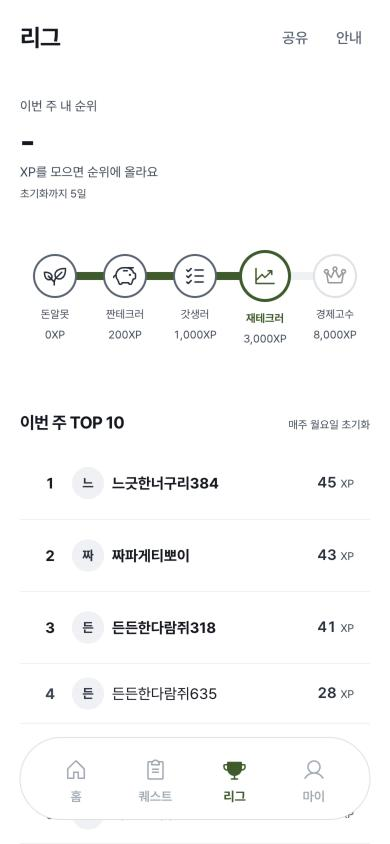
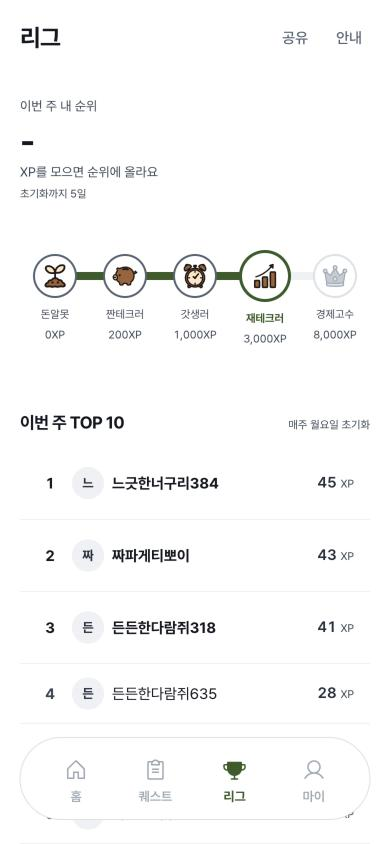
리그 등급 아이콘을 수달 그림체 일러스트 5종(SVG)으로 교체: 새싹·저금통·자명종·상승 차트·왕관, 못 간 등급은 잠김본

diff --git a/src/components/StageGlyph.tsx b/src/components/StageGlyph.tsx
@@ -1,12 +1,11 @@
-import { ChartLineUp, Crown, ListChecks, PiggyBank, Plant, type Icon } from '@phosphor-icons/react';
+// 등급은 수달과 같은 낙서 그림체 일러스트로 구분한다: 새싹 → 저금통 → 자명종 → 상승 차트 → 왕관
+// (public/league/v1, docs/character/league/trace_league.py로 벡터화). 아직 못 간 등급은 회색 잠김본, 40px 이하는 단순화본.
+const STAGE_FILE: Record<number, string> = { 1: 'tier1-moneybeginner', 2: 'tier2-saver', 3: 'tier3-routine', 4: 'tier4-investor', 5: 'tier5-master' };
 
-// 등급은 선형 아이콘으로 구분한다: 씨앗 → 저금통 → 체크리스트 → 상승 차트 → 왕관
-const STAGE_ICON: Record<number, Icon> = { 1: Plant, 2: PiggyBank, 3: ListChecks, 4: ChartLineUp, 5: Crown };
-
-export const StageGlyph = ({ id, size = 20, className = '' }: { id: number; size?: number; className?: string }) => {
-  const Glyph = STAGE_ICON[id] ?? Plant;
+export const StageGlyph = ({ id, size = 20, className = '', locked = false }: { id: number; size?: number; className?: string; locked?: boolean }) => {
+  const variant = locked ? '-locked' : size <= 40 ? '-small' : '';
   return (
-    <Glyph weight="regular" size={size} color="currentColor" aria-hidden="true" focusable="false" data-stage-id={id}
-      className={`stage-glyph shrink-0 ${className}`} style={{ width: size, height: size }} />
+    <img src={`/league/v1/league-${STAGE_FILE[id] ?? STAGE_FILE[1]}${variant}.svg`} alt="" aria-hidden="true" data-stage-id={id}
+      width={size} height={size} className={`stage-glyph shrink-0 ${className}`} style={{ width: size, height: size }} />
   );
 };

diff --git a/src/index.css b/src/index.css
@@ -1141,7 +1141,7 @@ button.course-home-rail-card:active { background: var(--color-surface); }
 .league-tier-node { display: flex; width: 44px; height: 44px; align-items: center; justify-content: center; border: 2px solid var(--color-line); border-radius: 50%; background: var(--color-card); }
 .league-tier-step[data-state='done'] .league-tier-node { border-color: var(--color-line-strong); background: var(--color-card); color: var(--color-ink-2); }
 .league-tier-step[data-state='current'] .league-tier-node { width: 52px; height: 52px; margin-top: calc(var(--space-1) * -1); border: 3px solid var(--color-accent-line-strong); box-shadow: 0 0 0 4px var(--color-accent-soft); color: var(--color-accent-foreground); }
-.league-tier-step[data-state='future'] .league-tier-node .stage-glyph { opacity: 0.45; filter: grayscale(0.6); }
+.league-tier-step[data-state='future'] .league-tier-node .stage-glyph { opacity: 1; filter: none; }
 .league-tier-name { margin-top: var(--space-1); max-width: 100%; overflow: hidden; color: var(--color-ink-3); font-size: var(--font-size-caption); text-overflow: ellipsis; white-space: nowrap; }
 .league-tier-step[data-state='current'] .league-tier-name { color: var(--color-accent-foreground); font-weight: var(--font-weight-bold); }
 .league-tier-xp { color: var(--color-ink-3); font-size: var(--font-size-caption); font-variant-numeric: tabular-nums; }

diff --git a/src/components/StageGlyph.test.tsx b/src/components/StageGlyph.test.tsx
@@ -16,15 +16,16 @@ const mount = (children: ReactNode) => {
 };
 
 describe('리그 등급 표식', () => {
-  it('등급을 선형 단색 아이콘으로 표시하고 그림 파일을 쓰지 않는다', () => {
+  it('등급을 수달 그림체 일러스트로 표시하고, 작으면 단순화본·못 간 등급은 잠김본을 쓴다', () => {
     const container = mount(<StageGlyph id={3} size={40} className="scale-125" />);
     const glyph = container.querySelector('.stage-glyph')!;
-    expect(glyph.tagName.toLowerCase()).toBe('svg');
-    expect(glyph).toHaveAttribute('fill', 'currentColor');
+    expect(glyph.tagName.toLowerCase()).toBe('img');
+    expect(glyph).toHaveAttribute('src', '/league/v1/league-tier3-routine-small.svg');
     expect(glyph).toHaveAttribute('data-stage-id', '3');
     expect(glyph).toHaveAttribute('aria-hidden', 'true');
     expect(glyph).toHaveClass('scale-125');
     expect(glyph).toHaveStyle({ width: '40px', height: '40px' });
-    expect(container.querySelector('img')).toBeNull();
+    expect(mount(<StageGlyph id={5} size={76} />).querySelector('img')).toHaveAttribute('src', '/league/v1/league-tier5-master.svg');
+    expect(mount(<StageGlyph id={4} size={28} locked />).querySelector('img')).toHaveAttribute('src', '/league/v1/league-tier4-investor-locked.svg');
   });
 });

diff --git a/src/pages/LeagueScreen.tsx b/src/pages/LeagueScreen.tsx
@@ -79,7 +79,7 @@ const LeagueScreen = () => {
             const state = s.id < stage.id ? 'done' : s.id === stage.id ? 'current' : 'future';
             return (
               <li key={s.id} className="league-tier-step" data-state={state} aria-current={state === 'current' ? 'step' : undefined}>
-                <span className="league-tier-node"><StageGlyph id={s.id} size={24} /></span>
+                <span className="league-tier-node"><StageGlyph id={s.id} size={28} locked={state === 'future'} /></span>
                 <span className="league-tier-name">{s.name}</span>
                 <span className="league-tier-xp">{s.minPoints.toLocaleString()}XP</span>
               </li>

diff --git a/docs/character/league/trace_league.py b/docs/character/league/trace_league.py
@@ -1,0 +1,89 @@
+"""리그 티어 기준 이미지(ref-league.png)를 수달과 같은 방식으로 벡터 추적해 SVG로 만든다.
+trace.py(수달)와 같은 레이어 구조: 실루엣(선) → 몸 → 크림.
+- 일반본 / 32px 단순화본(선 굵게) / 다크본(흰 외곽 스티커) / 잠김본(회색)
+- 기준 이미지의 흰 하이라이트·노란 동전은 크림으로 흡수해 3색만 남긴다.
+"""
+import cv2, numpy as np, potrace
+from pathlib import Path
+
+COL = {'line': '#2B211C', 'body': '#A9774F', 'cream': '#FBEBD3', 'sticker': '#FFFFFF'}
+LOCK = {'line': '#B0B8C1', 'body': '#D1D6DB', 'cream': '#E5E8EB'}
+NAMES = ['tier1-moneybeginner', 'tier2-saver', 'tier3-routine', 'tier4-investor', 'tier5-master']  # 돈알못·짠테크러·갓생러·재테크러·경제고수
+
+im = cv2.imread('ref-league.png').astype(np.int32)
+refs = np.array([[255, 255, 255], [115, 126, 150], [225, 241, 248], [5, 5, 6]])  # BGR: bg, body, cream, line
+d = ((im[:, :, None, :] - refs[None, None]) ** 2).sum(-1)
+cls = cv2.medianBlur(d.argmin(-1).astype(np.uint8), 5)
+body = cls == 1; cream = cls == 2
+fg = (cls != 0).astype(np.uint8)
+
+n, lab, st, cen = cv2.connectedComponentsWithStats(fg, 8)
+# 아이콘이 여러 덩어리(막대·화살표 등)로 나뉘어도 가로 간격으로 묶어 5개 그룹을 만든다
+comps = sorted([i for i in range(1, n) if st[i, cv2.CC_STAT_AREA] >= 30], key=lambda i: st[i, cv2.CC_STAT_LEFT])
+groups = []
+for i in comps:
+    l, r = st[i, cv2.CC_STAT_LEFT], st[i, cv2.CC_STAT_LEFT] + st[i, cv2.CC_STAT_WIDTH]
+    if groups and l <= groups[-1]['r'] + 40:
+        groups[-1]['ids'].append(i); groups[-1]['r'] = max(groups[-1]['r'], r)
+    else:
+        groups.append({'ids': [i], 'r': r})
+groups = [g for g in groups if sum(st[i, cv2.CC_STAT_AREA] for i in g['ids']) > 3000]
+assert len(groups) == len(NAMES), len(groups)
+big = list(range(len(groups)))
+owner = {i: k for k, g in enumerate(groups) for i in g['ids']}
+
+def fill_holes(m):
+    m = m.astype(np.uint8); h, w = m.shape
+    ff = m.copy(); mask = np.zeros((h + 2, w + 2), np.uint8)
+    cv2.floodFill(ff, mask, (0, 0), 1)
+    return m | (1 - ff)
+
+def trace(mask, scale):
+    if mask.sum() == 0: return ''
+    plist = potrace.Bitmap(~mask.astype(bool)).trace(turdsize=6, alphamax=1.1, opticurve=True, opttolerance=0.3)
+    f = lambda p: f'{p.x * scale:.1f} {p.y * scale:.1f}'
+    out = []
+    for c in plist:
+        s = f'M{f(c.start_point)}'
+        for seg in c.segments:
+            s += f'L{f(seg.c)} L{f(seg.end_point)}' if seg.is_corner else f'C{f(seg.c1)} {f(seg.c2)} {f(seg.end_point)}'
+        out.append(s + 'Z')
+    return ''.join(out)
+
+out = Path('svg'); out.mkdir(exist_ok=True)
+SIZE = 120
+SHRINK = {}
+for k, b in enumerate(big):
+    sel = np.isin(lab, [i for i, o in owner.items() if o == b])
+    ys, xs = np.where(sel)
+    pad = 20
+    side = max(ys.max() - ys.min(), xs.max() - xs.min()) + 2 * pad
+    side = int(side / SHRINK.get(NAMES[k], 1.0))   # 단계 차이를 크기로 보여줄 배지만 작게
+    cy, cx = (ys.min() + ys.max()) // 2, (xs.min() + xs.max()) // 2
+    y0, x0 = cy - side // 2, cx - side // 2
+    crop = lambda m: np.pad(m, side)[y0 + side:y0 + 2 * side, x0 + side:x0 + 2 * side]
+    S = fill_holes(crop(sel))
+    B = crop(body & sel).astype(np.uint8)
+    C = crop(cream & sel).astype(np.uint8)
+    hole = (S == 1) & (crop(cls) == 0)          # 실루엣 안의 흰 하이라이트 → 크림
+    C = C | hole.astype(np.uint8)
+    sc = SIZE / side
+
+    def svg(variant):
+        col = LOCK if variant == 'locked' else COL
+        Bv, Cv = B, C
+        if variant == 'small':
+            ker = cv2.getStructuringElement(cv2.MORPH_ELLIPSE, (7, 7))
+            Bv = cv2.erode(B, ker); Cv = cv2.erode(C, ker)
+        layers = ''
+        if variant == 'dark':
+            ker = cv2.getStructuringElement(cv2.MORPH_ELLIPSE, (25, 25))
+            layers += f'<path d="{trace(cv2.dilate(S, ker), sc)}" fill="{COL["sticker"]}"/>'
+        layers += f'<path d="{trace(S, sc)}" fill="{col["line"]}"/>'
+        layers += f'<path d="{trace(Bv, sc)}" fill="{col["body"]}"/>'
+        layers += f'<path d="{trace(Cv, sc)}" fill="{col["cream"]}"/>'
+        return f'<svg xmlns="http://www.w3.org/2000/svg" viewBox="0 0 {SIZE} {SIZE}" fill-rule="evenodd">{layers}</svg>\n'
+
+    for v, suf in [('normal', ''), ('small', '-small'), ('dark', '-dark'), ('locked', '-locked')]:
+        (out / f'league-{NAMES[k]}{suf}.svg').write_text(svg(v))
+    print(NAMES[k], 'done')

diff --git a/docs/CHARACTER_BIBLE.md b/docs/CHARACTER_BIBLE.md
@@ -66,6 +66,11 @@
 - 파일: `public/badges/v3/badge-<이름>[-small|-locked].svg`. 획득은 일반본(40px 이하는 단순화본), 미획득은 회색 잠김본. 다크본은 쓰지 않아 넣지 않았다.
 - 이름: word1·word10·word50·word100(단어), streak3·streak7·streak30(연속), xp100·xp500·xp1000(XP).
 
+## 5-2. 리그 등급 (2026-11-04)
+
+- 등급 5종도 같은 3색·낙서 선: 새싹(돈알못), 저금통(짠테크러), 자명종(갓생러), 상승 차트(재테크러), 왕관(경제고수). 기준 이미지 `docs/character/league/ref-league.png`, 벡터화 `trace_league.py`.
+- 파일: `public/league/v1/league-tier<번호>-<이름>[-small|-locked].svg`. 쓰는 곳은 `StageGlyph.tsx`(리그 등급 길·마이 프로필·승급 축하). 리그 등급 길에서 아직 못 간 등급은 잠김본, 40px 이하는 단순화본.
+
 ## 6. 포즈 추가 방법
 
 1. 기준 이미지(`docs/character/ref.png`)를 만든 것과 같은 프롬프트로 새 포즈 이미지를 생성한다.
